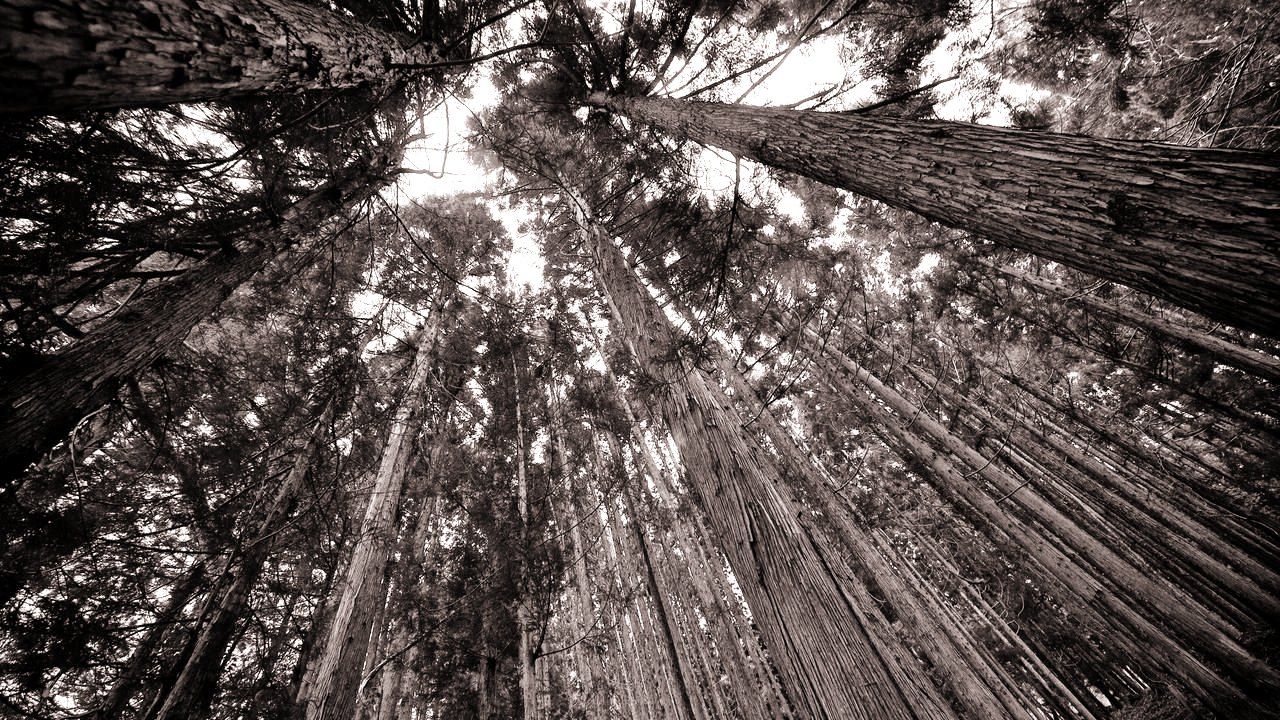
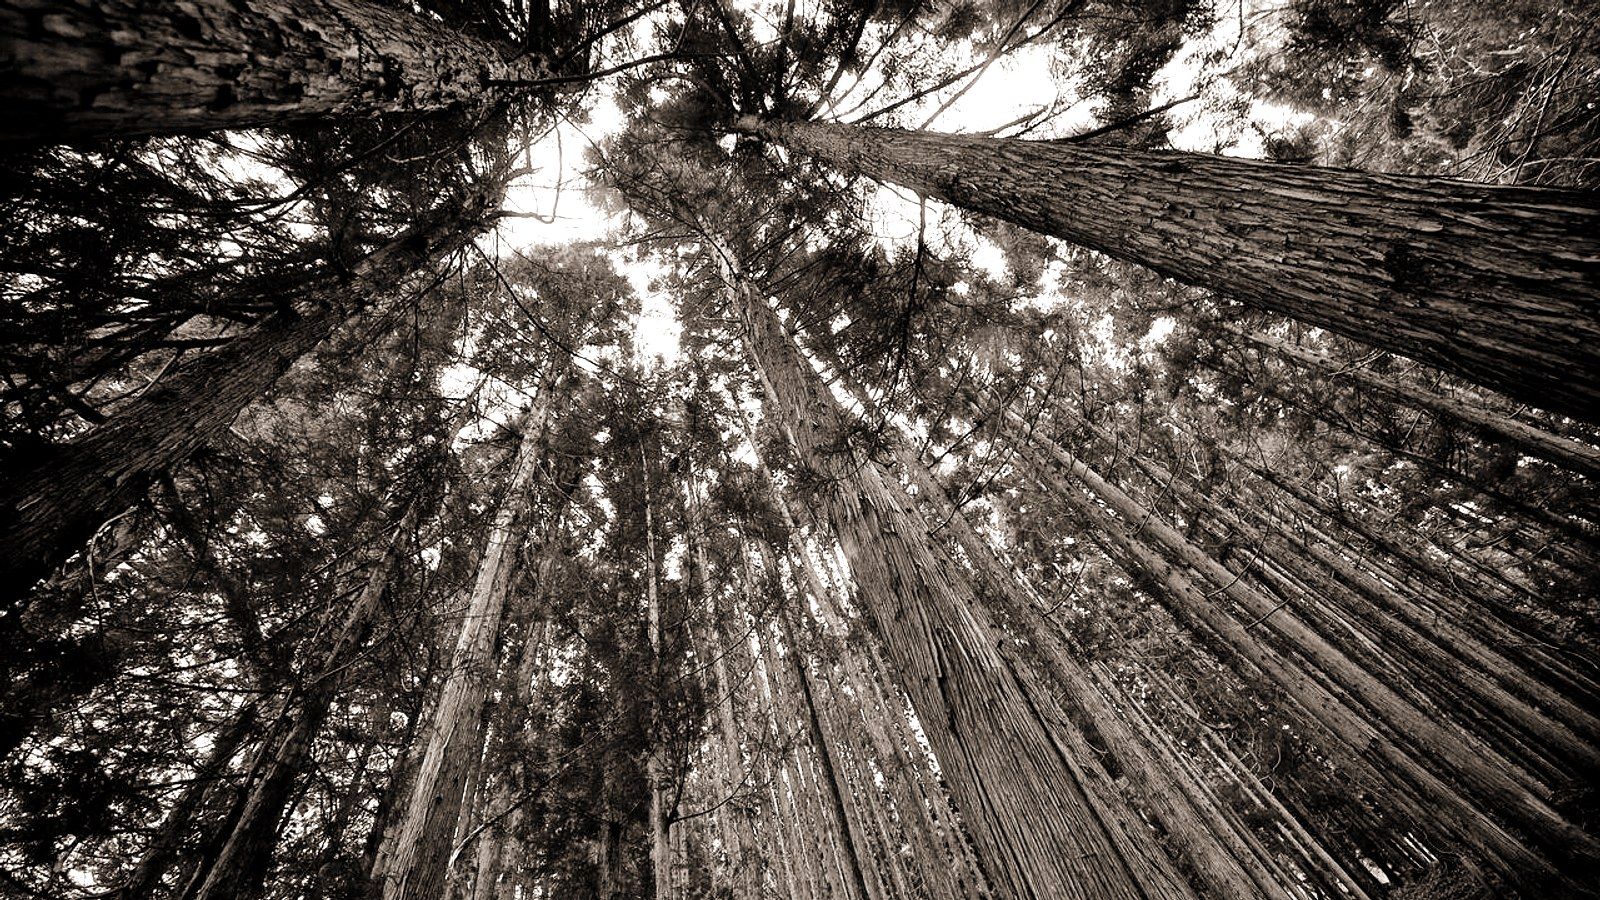
Revert to red-black; fullscreen film hero; fix Difference section
- Restore original cinematic-red palette (tokens + swept hardcoded
  rgba + favicon/OG/theme-color) — reverts the warm bronze re-grade.
- Hero redesigned: fullscreen film hero. Intro video fills the whole
  viewport (100svh), headline + promise + CTAs overlaid lower-start
  over a dark+red scrim, film-meta topbar, big center play target to
  open the full reel, animated scroll cue.
- Difference section fixed: regenerated before/after with a believable
  raw-vs-graded look (flat/cool/soft "before" vs punchy warm graded
  "after") instead of the same stock photo twice; reshaped the slider
  from letterboxed 21:9 full-bleed to a contained 16:9 frame.

diff --git a/src/styles/global.css b/src/styles/global.css
@@ -4,33 +4,32 @@
    ========================================================================= */
 
 :root {
-  /* ── WARM CINEMATIC palette — film-grade bronze/amber on warm black ── */
-  /* canvas — warm black (slightly brown-shifted, not neutral) */
-  --black:    #0A0806;   /* page background — warm near-black */
-  --surface:  #100C08;   /* raised section */
-  --surface-2:#17120C;   /* card */
-  --surface-3:#221A11;   /* input / hover */
+  /* canvas */
+  --black:    #050505;   /* page background — near pure black */
+  --surface:  #0C0B0C;   /* raised section */
+  --surface-2:#141113;   /* card */
+  --surface-3:#1C1719;   /* input / hover */
 
-  /* ink — warm off-white */
-  --white:    #F3ECE0;
-  --dim:      #B3A896;   /* secondary text */
-  --dim-2:    #877C6A;   /* tertiary text (AA on warm black) */
-  --line:     rgba(243,236,224,.09);
-  --line-2:   rgba(243,236,224,.16);
+  /* ink */
+  --white:    #FAFAFA;
+  --dim:      #ABA4A8;   /* secondary text */
+  --dim-2:    #837C81;   /* tertiary text (AA on black) */
+  --line:     rgba(255,255,255,.08);
+  --line-2:   rgba(255,255,255,.14);
 
-  /* accent — bronze / amber (variable names kept for compatibility) */
-  --red:      #E0A54A;   /* signature bronze-amber */
-  --red-hot:  #F0BE6A;   /* lighter hover / gradient top */
-  --red-deep: #A56A22;   /* gradient base */
-  --red-blood:#6E4415;   /* deep shadow amber */
-  --red-ink:  #17120C;   /* text on the amber fill (dark, for contrast) */
-  --red-rgb:  224, 165, 74;
+  /* red — the whole identity (derive rgba glows from this) */
+  --red:      #FF2A2A;   /* neon scarlet accent */
+  --red-hot:  #FF4D4D;   /* lighter hover */
+  --red-deep: #B00C12;   /* gradient base */
+  --red-blood:#7A0509;   /* deep shadow red */
+  --red-ink:  #FFFFFF;   /* text on red */
+  --red-rgb:  255, 42, 42;
 
   --whatsapp: #25D366;
 
-  /* deep surface fills used in media stages — warm */
-  --fill-red:  linear-gradient(160deg, #1c1408, #0c0905);
-  --fill-dark: linear-gradient(135deg, #1a140c, #0c0906);
+  /* deep surface fills used in media stages */
+  --fill-red:  linear-gradient(160deg, #1a1012, #0a0708);
+  --fill-dark: linear-gradient(135deg, #1c1416, #0d0a0c);
   --fill-card: linear-gradient(180deg, var(--surface-2), var(--surface));
 
   --maxw: 1200px;
@@ -84,8 +83,8 @@ body {
 body::after {
   content: ''; position: fixed; inset: -20%; z-index: -2; pointer-events: none;
   background:
-    radial-gradient(38% 30% at 22% 12%, rgba(224,165,74,.10), transparent 60%),
-    radial-gradient(42% 34% at 82% 78%, rgba(165,106,34,.10), transparent 62%),
+    radial-gradient(38% 30% at 22% 12%, rgba(255,42,42,.10), transparent 60%),
+    radial-gradient(42% 34% at 82% 78%, rgba(176,12,18,.10), transparent 62%),
     radial-gradient(60% 60% at 50% 50%, rgba(0,0,0,.5), transparent 70%);
   filter: blur(30px);
   animation: aurora 34s ease-in-out infinite alternate;
